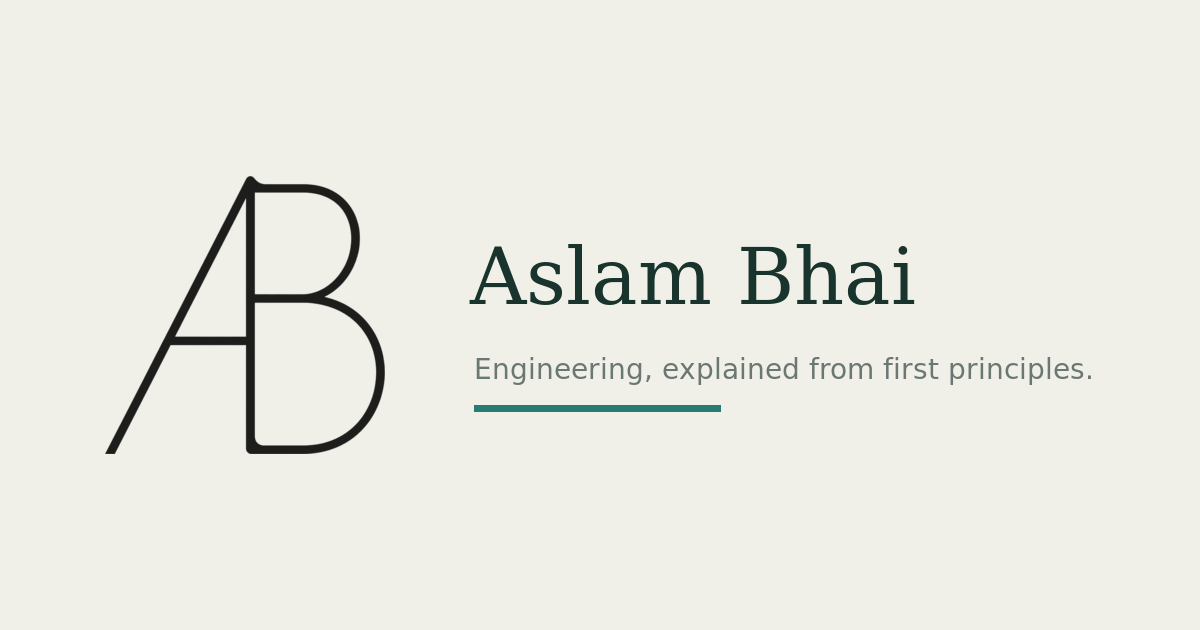
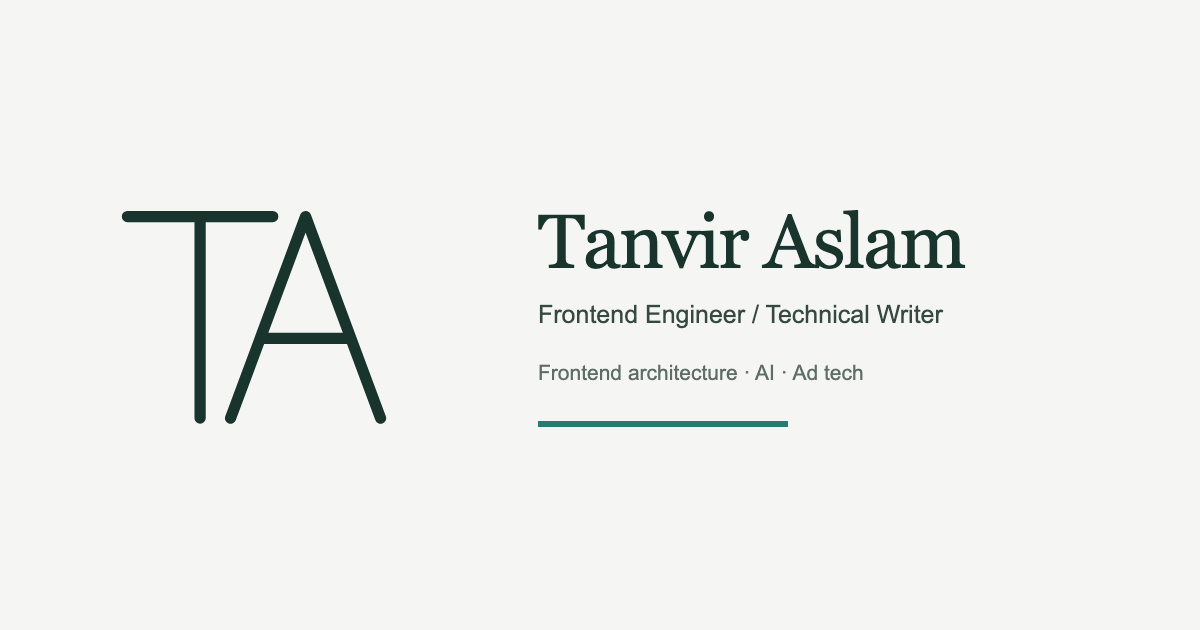
Rebrand site as Tanvir Aslam

diff --git a/src/styles/global.css b/src/styles/global.css
@@ -9,18 +9,18 @@ button:focus-visible,a:focus-visible,input:focus-visible { outline:2px solid var
 svg { width:1.2em; height:1.2em; stroke-width:1.6; }
 .sr-only { position:absolute;width:1px;height:1px;padding:0;margin:-1px;overflow:hidden;clip:rect(0,0,0,0);white-space:nowrap;border:0; }
 .site-shell { width:min(100%,1600px); margin:auto; min-height:100vh; }
-.site-header { height:100px; margin:0 40px; display:flex; align-items:center; border-bottom:1px solid var(--rule); position:relative; z-index:20; background:color-mix(in srgb,var(--bg) 94%,transparent); }
+.site-header { height:84px; margin:0 40px; display:flex; align-items:center; border-bottom:1px solid var(--rule); position:relative; z-index:20; background:color-mix(in srgb,var(--bg) 94%,transparent); }
 .article-site .site-header,.home-site .site-header { position:sticky; top:0; z-index:30; background:color-mix(in srgb,var(--bg) 96%,transparent); backdrop-filter:blur(14px); -webkit-backdrop-filter:blur(14px); }
-.brand-lockup { display:flex; align-items:center; gap:24px; min-width:390px; }
-.monogram { width:54px;height:54px;display:grid;place-items:center;color:var(--ink);font-size:48px;line-height:1;transition:color .16s ease; }
+.brand-lockup { display:flex; align-items:center; gap:16px; min-width:350px; }
+.monogram { width:44px;height:44px;display:grid;place-items:center;color:var(--ink);font-size:40px;line-height:1;transition:color .16s ease; }
 .monogram:hover { color:var(--teal); }
-.brand-lockup>div { border-left:1px solid var(--rule); padding-left:24px; display:flex; flex-direction:column; }
-.brand-name { font-family:"Source Serif 4",serif; color:var(--ink); font-size:25px; font-weight:600; line-height:1.2; }
-.tagline { color:var(--muted); font-size:13px; }
-.main-nav { display:flex; height:100%; align-items:center; gap:46px; margin:auto; }
+.brand-lockup>div { min-width:0;border-left:1px solid var(--rule); padding-left:16px; display:flex; flex-direction:column; }
+.brand-name { font-family:"Source Serif 4",serif; color:var(--ink); font-size:23px; font-weight:600; line-height:1.2; }
+.tagline { color:var(--muted); font-size:12px;white-space:nowrap; }
+.main-nav { display:flex; height:100%; align-items:center; gap:32px; margin:auto; }
 .main-nav a { height:100%; display:grid; place-items:center; position:relative; font-weight:500; color:var(--ink); }
 .main-nav a.active:after,.main-nav a:hover:after { content:""; position:absolute; height:2px; background:var(--teal); bottom:-1px; left:0; right:0; }
-.header-tools { display:flex; gap:22px; align-items:center; }
+.header-tools { display:flex; gap:14px; align-items:center; }
 .icon-button { border:0;background:transparent;color:var(--ink);padding:10px;display:grid;place-items:center;cursor:pointer;border-radius:999px; }
 .icon-button:hover { background:color-mix(in srgb,var(--teal) 10%,transparent); }
 .header-rss { display:inline-flex;align-items:center;gap:7px;padding:9px 10px;border:1px solid transparent;border-radius:999px;color:var(--ink);font-size:12px;font-weight:700;letter-spacing:.06em;transition:color .16s ease,background-color .16s ease,border-color .16s ease; }
@@ -80,6 +80,8 @@ footer { border-top:1px solid var(--rule);margin:0 40px;padding:28px 5px 40px;di
 @media(max-width:720px){.site-header{height:76px;margin:0 18px}.article-site .reading-progress{top:76px}.brand-lockup{min-width:0;gap:12px}.monogram{width:38px;height:38px;font-size:36px}.brand-lockup>div{padding-left:12px}.brand-name{font-size:19px}.tagline{display:none}.main-nav{display:none;position:absolute;top:75px;left:0;right:0;height:auto;background:var(--bg);border-bottom:1px solid var(--rule);padding:12px 18px}.main-nav.open{display:flex;flex-direction:column;align-items:stretch;gap:0}.main-nav a{height:48px;display:flex}.main-nav a.active:after,.main-nav a:hover:after{display:none}.desktop-tool{display:none}.mobile-menu{display:grid}.header-tools{gap:2px;margin-left:auto}.content-column{padding:28px 18px 45px}.discovery{flex-wrap:nowrap;padding-bottom:20px}.search-box{width:44px;min-width:44px;height:42px}.search-box:focus-within,.search-box:has(input:not(:placeholder-shown)){width:min(100%,280px)}.chip{height:42px;padding:0 14px}.featured{padding:25px 0}.featured h2{font-size:36px}.featured p{font-size:15px}.meta{gap:13px;font-size:10px}.article-row{grid-template-columns:28px 1fr 24px;gap:10px;padding:14px 0}.article-row strong{font-size:18px;grid-column:2}.row-date,.row-time{grid-row:2;font-size:10px}.row-date{grid-column:2}.row-time{grid-column:2;margin-left:115px}.row-arrow{grid-column:3;grid-row:1/3}.static-page{padding:45px 20px 70px}.page-intro{font-size:18px}.project-grid{grid-template-columns:1fr}.about-grid{grid-template-columns:1fr;gap:30px}.about-grid aside{border-left:0;border-top:1px solid var(--rule);padding:25px 0 0}.article-page{padding:28px 18px 70px}.article-header{margin:30px 0 35px}.article-header h1{font-size:45px}.article-header>p{font-size:18px}.article-byline{display:grid;grid-template-columns:42px 1fr;gap:10px}.article-byline>div:nth-child(2){margin:0}.article-meta{grid-column:1/-1;flex-wrap:wrap;gap:10px 16px;margin-top:4px}.article-toc{margin-bottom:32px}.article-toc ol{columns:1}.article-reading-area{display:block;width:100%}.share-tools{position:static;flex-direction:row;margin:0 0 28px}.prose{font-size:18px;line-height:1.72}.prose .lead{font-size:21px}.prose h2{font-size:30px;margin-top:45px}.prose blockquote{font-size:22px;margin:32px 0;padding:18px}.layers-diagram{grid-template-columns:1fr;gap:24px;padding:18px}.evidence-card{order:-1}.evidence-card::after,.layer-card::before{display:none}.discussion-section{margin-top:55px;padding-top:32px}.discussion-heading h2{font-size:28px}.article-next{grid-template-columns:1fr;gap:20px}.article-next a:last-child{text-align:left}footer{margin:0 18px;flex-direction:column;gap:8px}.resume-page article{padding:28px}.resume-tools button{font-size:0}}
 @media(max-width:1100px) and (min-width:721px){.article-header{margin-top:40px}.article-header h1{font-size:clamp(56px,8vw,78px)}}
 @media(max-width:720px){.article-header{margin:30px 0 42px}.article-header h1{font-size:45px;line-height:1.06;letter-spacing:-.035em}.article-header>p{font-size:18px;line-height:1.55}.article-byline{grid-template-columns:48px 1fr;margin-top:24px}.article-author{margin:0}}
+@media(max-width:720px){.site-header{height:72px}.article-site .reading-progress{top:72px}.brand-lockup{gap:10px}.monogram{width:36px;height:36px;font-size:34px}.brand-lockup>div{padding-left:10px}.brand-name{font-size:18px}.tagline{display:block;font-size:10px;white-space:nowrap}.main-nav{top:71px}}
+@media(max-width:480px){.tagline-prefix{display:none}}
 @media(prefers-reduced-motion:reduce){*{scroll-behavior:auto!important;transition:none!important;animation:none!important}}
 @media print{.resume-tools{display:none}.resume-page{margin:0;max-width:none}.resume-page article{box-shadow:none;padding:0}}
 

diff --git a/src/data/about.ts b/src/data/about.ts
@@ -1,11 +1,11 @@
 export const aboutProfile = {
-  title: "I’m Tanvir. Aslam Bhai is how I explain engineering.",
+  title: "I’m Tanvir. This is where I explain engineering.",
   intro:
     "I’m a senior frontend engineer and technical lead focused on frontend architecture, engineering systems, ad tech, and AI-native products.",
   summary: "Senior frontend engineer and technical lead.",
   whyThisExists: [
     "Most engineering resources explain what a technology does. I’m more interested in why it exists, which constraints shaped it, where it breaks, and how teams should reason about the tradeoffs.",
-    "Aslam Bhai is my public notebook for that work—and Anabasis is the year-long expedition behind it: learning deeply, building real products, and growing from senior craft into broader engineering leadership.",
+    "This site is my public notebook for that work. Anabasis is the year-long expedition behind it: learning deeply, building real products, and growing from senior craft into broader engineering leadership.",
   ],
   focusAreas: [
     { name: "Frontend systems and architecture", perspective: "Architecture, resilience, and tradeoffs" },

diff --git a/src/site.config.ts b/src/site.config.ts
@@ -1,6 +1,6 @@
 export const site = {
-  name: "Aslam Bhai",
-  title: "Aslam Bhai — Engineering and Ad Tech, explained",
+  name: "Tanvir Aslam",
+  title: "Tanvir Aslam — Frontend Architecture, AI, and Ad Tech",
   description: "Deep, practical essays on frontend architecture, AI for engineers, ad tech, and engineering leadership.",
   url: "https://tanviraslam.com",
   author: "Tanvir Aslam",

diff --git a/docs/PROJECT_CONTEXT.md b/docs/PROJECT_CONTEXT.md
@@ -4,7 +4,7 @@ Last updated: August 4, 2026
 
 ## Purpose
 
-Aslam Bhai is Tanvir Aslam's public technical-writing and project platform. It is part of Anabasis, a year-long program focused on deep engineering learning, shipping useful products, preparing for Principal or Senior Staff roles, building a respected public brand, and creating the possibility of a second income stream.
+`tanviraslam.com` is Tanvir Aslam's public technical-writing and project platform. It is part of Anabasis, a year-long program focused on deep engineering learning, shipping useful products, preparing for Principal or Senior Staff roles, building a respected public brand, and creating the possibility of a second income stream.
 
 Tanvir has at most three hours a day alongside a full-time job and a toddler. Favor focused scope, weekly shipping, and learning through real deliverables over endless polish cycles.
 
@@ -13,7 +13,7 @@ The primary audience is mid-level and senior frontend engineers. Content covers 
 ## Product direction
 
 - Keep the site static-first, content-first, and dependency-light.
-- Preserve the established Aslam Bhai visual identity and responsive behavior.
+- Preserve the established editorial visual identity and responsive behavior while presenting Tanvir Aslam as the public brand.
 - The homepage emphasizes published articles. Core sections are Home, Projects, and About.
 - About uses a mode chooser: a readable profile at `/about/read` and a separate Pretend Terminal experience at `/about/terminal`.
 - Publishing remains Git-based until a concrete requirement justifies a CMS integration.

diff --git a/README.md b/README.md
@@ -1,4 +1,4 @@
-# Aslam Bhai
+# Tanvir Aslam
 
 A static, content-first personal publishing site built with Astro.
 
